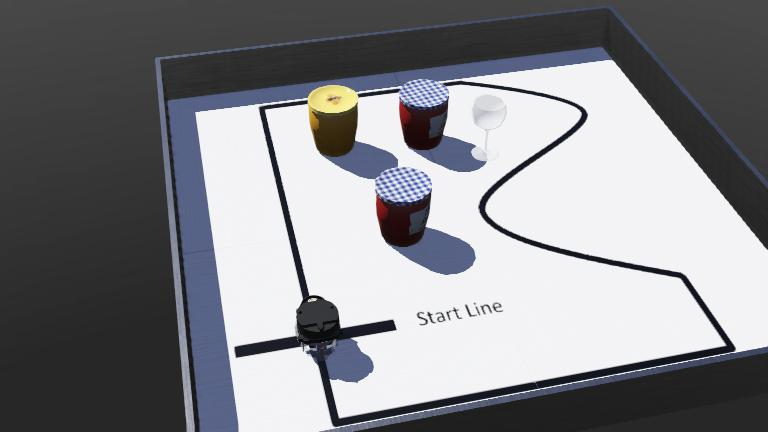
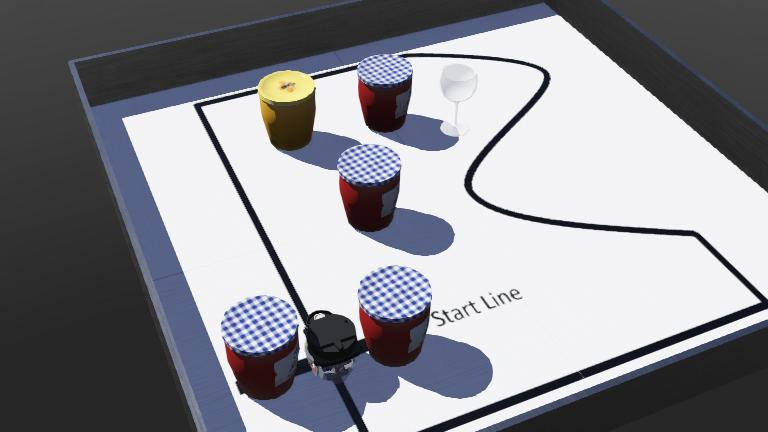
probabilistic mapping and configuration space

diff --git a/odometry and mapping/controllers/line_following/line_following.py b/odometry and mapping/controllers/line_following/line_following.py
@@ -3,7 +3,7 @@
 from controller import Robot, Lidar
 import numpy as np
 from matplotlib import pyplot as plt
-
+from scipy import signal
 
 # create the Robot instance.
 robot = Robot()
@@ -16,19 +16,26 @@ left_motor, right_motor = robot.getDevice('left wheel motor'), robot.getDevice('
 left_motor.setPosition(float('inf'))
 right_motor.setPosition(float('inf'))
 
+gs = [robot.getDevice(f'gs{i}') for i in range(3)]
+for sensor in gs:
+    sensor.enable(timestep)
+
 lidar = robot.getDevice('LDS-01')
 lidar.enable(timestep)
 lidar.enablePointCloud()
+
+gps = robot.getDevice('gps')
+gps.enable(timestep)
+compass = robot.getDevice('compass')
+compass.enable(timestep)
 
 display = robot.getDevice('display')
 fig, ax = plt.subplots()
 plt.ion()
 robot.step(timestep)
 
-gs = [robot.getDevice(f'gs{i}') for i in range(3)]
-for sensor in gs:
-    sensor.enable(timestep)
-    
+# init probabilistic map
+map = np.zeros((300, 300))
     
 # e-pucks position in world coordinate system
 alpha = 1.57 # e-puck angle relative to world axis
@@ -42,6 +49,7 @@ d = 0.052
 time = 0 
 dist = 0.028
 angle = 90
+
 
 # Main loop:
 # wheel speeds set once, pureley reactive (no states)
@@ -94,6 +102,12 @@ while robot.step(timestep) != -1:
    
     print(f'World Coordinates: X: {round(xw, 3)}, Y: {round(yw, 3)}, Angle: {round(alpha, 3)}')
     
+    # overwrite world frame coordinates with gps data
+    xw = gps.getValues()[0]
+    yw = gps.getValues()[1]
+    
+    # overwrite world frame orientation with compass data
+    alpha=np.arctan2(compass.getValues()[0],compass.getValues()[1])
     
     # read lidar data
     ranges = np.array(lidar.getRangeImage())
@@ -110,16 +124,58 @@ while robot.step(timestep) != -1:
                       [np.sin(alpha),  np.cos(alpha), yw],
                       [0,              0,              1]])
     
-    # coords in world frame
+    # coords in world frame R^3*360
     w_r = w_T_r @ p_r
-    
-    plt.plot(w_r[0, :], w_r[1, :], '.')
-    plt.pause(0.01)
-    plt.show()
-    
-        
-    pass
 
+    # visualization
+    display.setColor(0xFFFFFF)
+
+    arena_x = 0.305
+    arena_y = 0.29
+    
+    for i in range(360):
+        # map world coordinates in range (-150, +150)
+        px = int(np.interp(w_r[0][i],[-0.5+arena_x, 0.5+arena_x], [0, 299]))
+        py = int(np.interp(w_r[1][i],[-0.5+arena_y, 0.5+arena_y], [299, 0]))
+        
+        # probabilistic map
+        map[px, py] = min(map[px, py] + 0.01, 1.0)
+    
+        # intensity value and color
+        v = int(map[px, py] * 255)
+        color = (v << 16) + (v << 8) + v  # Convert grayscale to RGB
+        display.setColor(color)
+
+        display.drawPixel(px, py)
+    
+    
+    # plt.plot(w_r[0, :], w_r[1, :], '.')
+    # plt.pause(0.01)
+    # plt.show()
+    
+    if (-0.007 < xw < -0.005) and (-0.007 < yw < -0.005):
+        print('stopping condition found! Displaying configuration space')
+        break
+        
+    
+# 2d configuration space 
+# 3rd degree of freedom ommitted due to radial symmetry
+            
+# convolve map with kernel
+kernel = np.ones((20, 20))
+cmap = signal.convolve2d(map, kernel, mode='same')
+            
+# thresholding
+cspace = cmap > 0.9
+    
+for i in range(300):
+    for j in range(300):
+        if cmap[i, j]:
+            display.drawPixel(i, j) 
+
+plt.imshow(cspace)
+plt.show()
+            
 # Enter here exit cleanup code.
 left_motor.setVelocity(0)
 right_motor.setVelocity(0)
